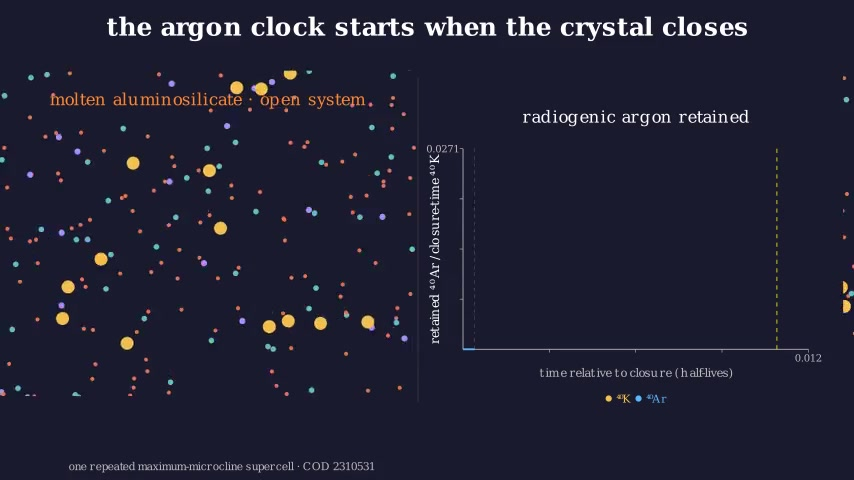
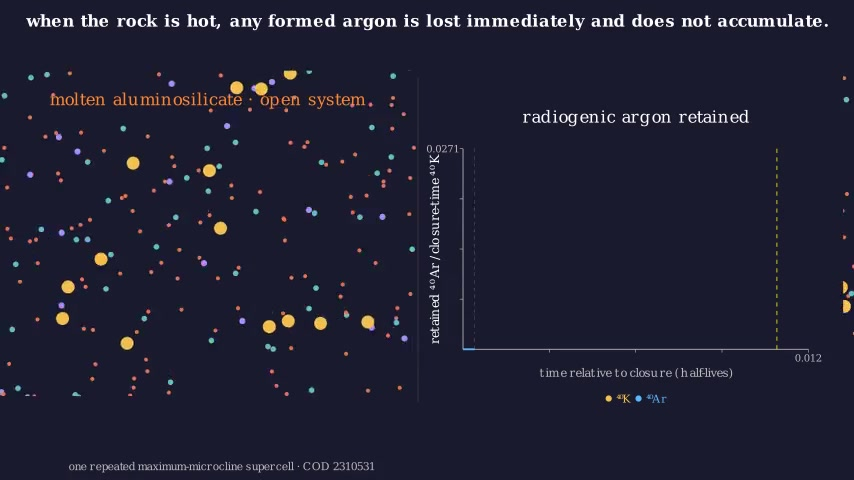
Reorder argon dating and diffusion sections

Changed region(s): [[0.0304, 0.0312, 0.9742, 0.0938]]

diff --git a/posts/challenging-cold-mars.html b/posts/challenging-cold-mars.html
@@ -126,33 +126,45 @@
           <section class="article-grid subsection" id="argon-clock-start">
             <figure class="section-media">
               <div class="video-shell">
-                <video width="854" height="480" muted loop playsinline controls preload="metadata" poster="../assets/cold-mars/manim/argon-closure-clock.jpg?v=20260719h">
-                  <source src="../assets/cold-mars/manim/argon-closure-clock.mp4?v=20260719h" type="video/mp4">
+                <video width="854" height="480" muted loop playsinline controls preload="metadata" poster="../assets/cold-mars/manim/argon-closure-clock.jpg?v=20260719i">
+                  <source src="../assets/cold-mars/manim/argon-closure-clock.mp4?v=20260719i" type="video/mp4">
                 </video>
               </div>
             </figure>
 
             <div class="article-copy">
               <h3>when does the argon clock start?</h3>
-              <p>In a closed system, the potassium population decreases exponentially. But in aluminosilicate magma, there is no crystal structure to cage Argon gas. So \(\frac{[{}^{40}\mathrm{Ar}]}{[{}^{40}\mathrm{K}]}\) is a clock for the implied age of the rock, where the timer starts the moment the magma cools enough to trap argon gas.</p>
-              <div class="equation" role="math" aria-label="Potassium 40 decreases exponentially after closure; radiogenic argon 40 over potassium 40 equals the argon branching fraction times e to lambda delta t minus one">
-                \[\begin{aligned}
-                  N_{{}^{40}\mathrm{K}}(t)&amp;=N_{{}^{40}\mathrm{K}}(t_c)e^{-\lambda(t-t_c)}\\
-                  \frac{[{}^{40}\mathrm{Ar}]}{[{}^{40}\mathrm{K}]}&amp;=\frac{\lambda_{\mathrm{Ar}}}{\lambda}\!\left(e^{\lambda(t-t_c)}-1\right)
-                \end{aligned}\]
-              </div>
+              <p>Aluminosilicate magma has no crystal lattice to cage argon gas, so newly formed radiogenic ⁴⁰Ar escapes. The clock starts at closure: once cooling forms the feldspar lattice, newly produced argon can remain trapped.</p>
             </div>
           </section>
 
           <section class="article-grid subsection" id="date-feldspar">
+            <figure class="section-media">
+              <div class="video-shell">
+                <video width="854" height="480" muted loop playsinline controls preload="metadata" poster="../assets/cold-mars/manim/feldspar-dating.jpg?v=20260719a">
+                  <source src="../assets/cold-mars/manim/feldspar-dating.mp4?v=20260719a" type="video/mp4">
+                </video>
+              </div>
+            </figure>
+
+            <div class="article-copy">
+              <h3>how to date a feldspar</h3>
+              <p>After closure, ⁴⁰K decreases with a half-life of 1.25 billion years while radiogenic ⁴⁰Ar accumulates. The animation normalizes the argon-producing parent–daughter branch so that the remaining parent and accumulated daughter sum to the original population.</p>
+              <div class="equation" role="math" aria-label="Potassium 40 decreases exponentially after closure while radiogenic argon 40 accumulates">
+                \[\begin{aligned}
+                  N_{{}^{40}\mathrm{K}}(t)&amp;=N_{{}^{40}\mathrm{K}}(t_c)e^{-\lambda(t-t_c)}\\
+                  N_{{}^{40}\mathrm{Ar}^{*}}(t)&amp;=N_{{}^{40}\mathrm{K}}(t_c)-N_{{}^{40}\mathrm{K}}(t)
+                \end{aligned}\]
+              </div>
+              <p>The measured daughter-to-parent ratio therefore maps to the elapsed time since the feldspar closed.</p>
+              <div class="equation" role="math" aria-label="Elapsed time since closure equals the half life times log base two of one plus radiogenic argon 40 over potassium 40">
+                \[t-t_c=t_{1/2}\log_2\!\left(1+\frac{{}^{40}\mathrm{Ar}^{*}}{{}^{40}\mathrm{K}}\right)\]
+              </div>
+            </div>
+          </section>
+
+          <section class="article-grid subsection" id="argon-diffusion">
             <div class="section-media-stack">
-              <figure class="section-media">
-                <div class="video-shell">
-                  <video width="854" height="480" muted loop playsinline controls preload="metadata" poster="../assets/cold-mars/manim/multi-domain.jpg">
-                    <source src="../assets/cold-mars/manim/multi-domain.mp4" type="video/mp4">
-                  </video>
-                </div>
-              </figure>
               <figure class="section-media">
                 <div class="video-shell">
                   <video width="854" height="480" muted loop playsinline controls preload="metadata" poster="../assets/cold-mars/manim/step-heating.jpg">
@@ -160,33 +172,18 @@
                   </video>
                 </div>
               </figure>
+              <figure class="section-media">
+                <div class="video-shell">
+                  <video width="854" height="480" muted loop playsinline controls preload="metadata" poster="../assets/cold-mars/manim/closure-temperature.jpg">
+                    <source src="../assets/cold-mars/manim/closure-temperature.mp4" type="video/mp4">
+                  </video>
+                </div>
+              </figure>
             </div>
-
-            <div class="article-copy">
-              <h3>how to date a feldspar</h3>
-              <p>In an argon step-heating experiment, the laboratory raises a feldspar's temperature in stages and measures the argon released at each stage. The measured ratio of radiogenic argon-40 to potassium-derived argon-39 can be converted into an age.</p>
-              <div class="equation" role="math" aria-label="t equals one over lambda times the natural logarithm of one plus J times argon 40 star over argon 39 K">
-                \[t=\lambda^{-1}\ln\!\left(1+J\,\frac{{}^{40}\mathrm{Ar}^{*}}{{}^{39}\mathrm{Ar}_{\mathrm K}}\right)\]
-              </div>
-              <p>A feldspar grain need not behave as one container. Multi-domain diffusion represents the sample as a mixture of domains with different effective diffusion lengths. Small or fast domains release argon earlier; large or retentive domains release it later.</p>
-              <div class="equation" role="math" aria-label="F model equals the sum over i of phi i times F i, and the phi values sum to one">
-                \[F_{\mathrm{model}}=\sum_i\phi_iF_i,\qquad\sum_i\phi_i=1\]
-              </div>
-              <p>The shape of the release schedule constrains the effective diffusion parameters and volume fractions. Those parameters describe how the sample behaves during heating; they are not automatically a literal inventory of physical grain diameters.</p>
-            </div>
-          </section>
-
-          <section class="article-grid subsection" id="argon-diffusion">
-            <figure class="section-media">
-              <div class="video-shell">
-                <video width="854" height="480" muted loop playsinline controls preload="metadata" poster="../assets/cold-mars/manim/closure-temperature.jpg">
-                  <source src="../assets/cold-mars/manim/closure-temperature.mp4" type="video/mp4">
-                </video>
-              </div>
-            </figure>
 
             <div class="article-copy">
               <h3>warmth siphons argon out of the rocks</h3>
+              <p>In a step-heating experiment, the laboratory raises a feldspar's temperature in stages and measures the argon released at each stage. That controlled loss reveals how readily argon moves through the sample.</p>
               <p>Argon moves through feldspar by diffusion. Heating increases the diffusion coefficient and lets argon leave the crystal; cooling suppresses diffusion and preserves it. The temperature sensitivity enters through an Arrhenius relationship.</p>
               <div class="equation" role="math" aria-label="partial C over partial t equals divergence of D of T times gradient C; D of T equals D zero times e to negative activation energy over R T">
                 \[\begin{aligned}
@@ -206,21 +203,35 @@
           </div>
 
           <section class="article-grid subsection" id="two-spike">
-            <figure class="section-media">
-              <div class="video-shell">
-                <video width="854" height="480" muted loop playsinline controls preload="metadata" poster="../assets/cold-mars/manim/mdd-comparison.jpg">
-                  <source src="../assets/cold-mars/manim/mdd-comparison.mp4" type="video/mp4">
-                </video>
-              </div>
-            </figure>
+            <div class="section-media-stack">
+              <figure class="section-media">
+                <div class="video-shell">
+                  <video width="854" height="480" muted loop playsinline controls preload="metadata" poster="../assets/cold-mars/manim/multi-domain.jpg">
+                    <source src="../assets/cold-mars/manim/multi-domain.mp4" type="video/mp4">
+                  </video>
+                </div>
+              </figure>
+              <figure class="section-media">
+                <div class="video-shell">
+                  <video width="854" height="480" muted loop playsinline controls preload="metadata" poster="../assets/cold-mars/manim/mdd-comparison.jpg">
+                    <source src="../assets/cold-mars/manim/mdd-comparison.mp4" type="video/mp4">
+                  </video>
+                </div>
+              </figure>
+            </div>
 
             <div class="article-copy">
               <h3>shuster et al's 2-spike model</h3>
+              <p>A feldspar grain need not behave as one container. Multi-domain diffusion represents the sample as a mixture of domains with different effective diffusion lengths. Small or fast domains release argon earlier; large or retentive domains release it later.</p>
+              <div class="equation" role="math" aria-label="F model equals the sum over i of phi i times F i, and the phi values sum to one">
+                \[F_{\mathrm{model}}=\sum_i\phi_iF_i,\qquad\sum_i\phi_i=1\]
+              </div>
               <p>Shuster et al represented the domain distribution with two components: a low-retentivity domain and a high-retentivity domain. In distribution notation, this is a pair of point masses.</p>
               <div class="equation" role="math" aria-label="p of x equals phi times delta at x one plus one minus phi times delta at x two">
                 \[p(x)=\phi\,\delta(x-x_1)+(1-\phi)\,\delta(x-x_2)\]
               </div>
               <p>This was computationally practical in 2005. It also restricts the ways the model can explain the release data. If the effective-domain distribution is broader or differently shaped, a two-point approximation can understate uncertainty in the most retentive material.</p>
+              <p>The shape of the release schedule constrains effective diffusion parameters and volume fractions. Those parameters describe how the sample behaves during heating; they are not automatically a literal inventory of physical grain diameters.</p>
             </div>
           </section>
 